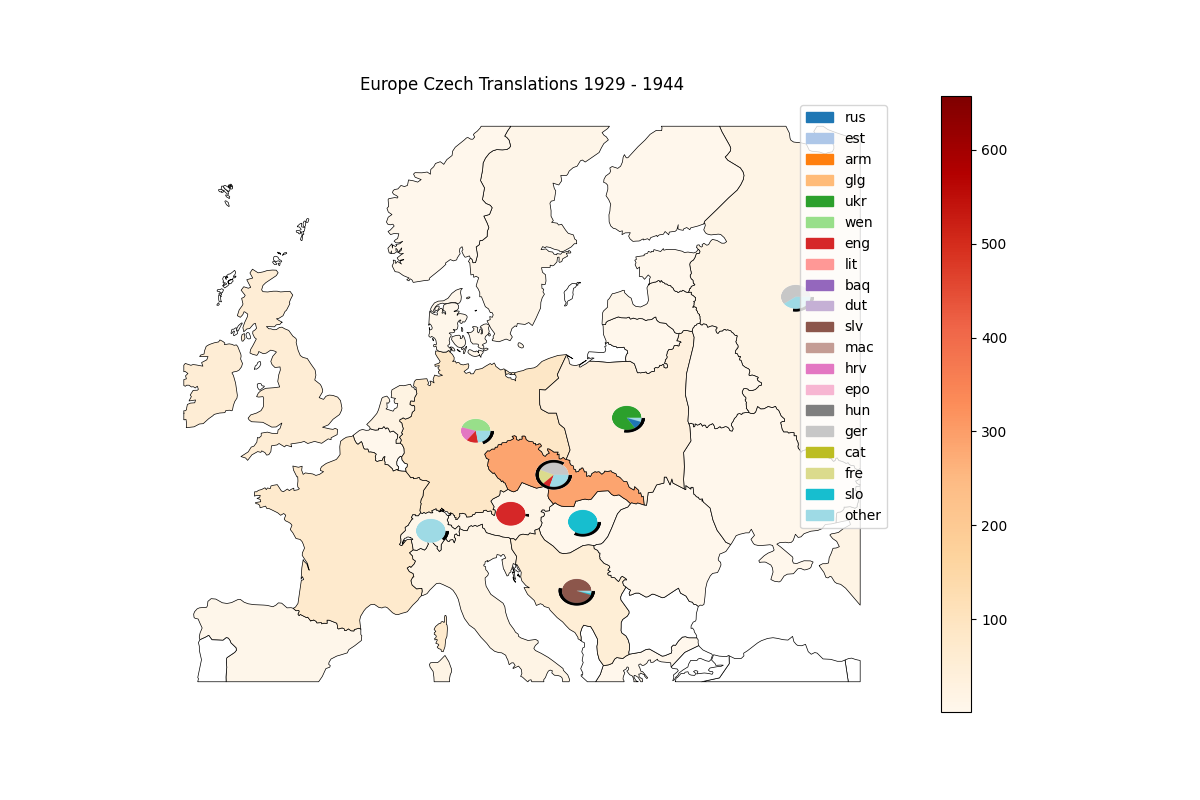
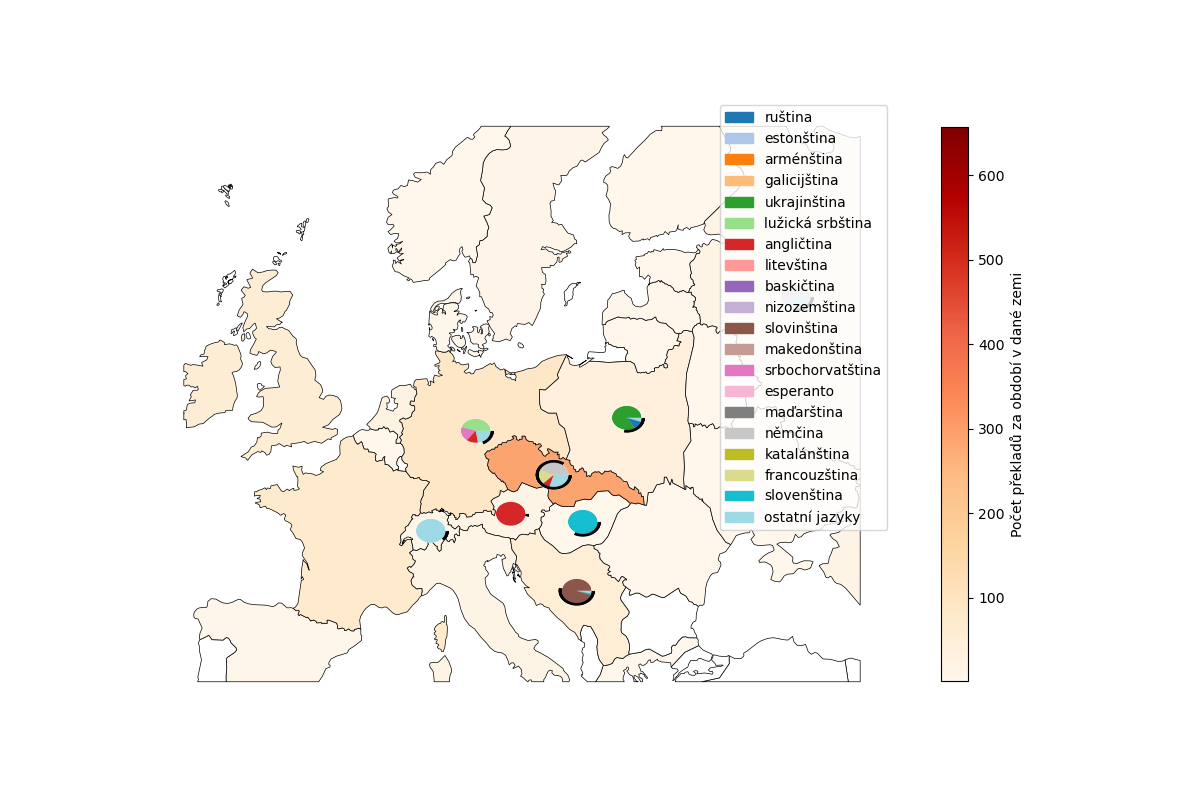
labels changes

Changed region(s): [[0.5858, 0.125, 0.74, 0.6562], [0.7708, 0.125, 0.8633, 0.875], [0.3083, 0.0938, 0.5858, 0.125]]

diff --git a/plot_map_with_chart.py b/plot_map_with_chart.py
@@ -9,7 +9,7 @@ import matplotlib.patches as mpatches
 ############ FOR MAPS #############
 
 # folder with geopandas maps
-folder_path = "C:/Users/Panuskova/Nextcloud/translation-mapping/historical-basemaps/years"
+folder_path = "historical-basemaps/years"
 
  # Bounding box of the map - Europe
 bbox =  [-10, 40, 40, 65] #[-10, 35, 60, 75] # [minx, miny, maxx, maxy] - minimal longitude, minimal latitude, maximal longitude, maximal latitude
@@ -59,14 +59,34 @@ norm = colors.Normalize(vmin=vmin, vmax=vmax)
 RADIUS = 1.1
 
 # folder with charts
-piechart_folder = 'plots\\pie charts minor top 19 languages plain\\'
+piechart_folder = 'plots/pie charts minor top 19 languages plain/'
 
 # Table with number of translations for each country, language and decade
-df = pd.read_excel("weights\\translations_language_countries.xlsx")
+df = pd.read_excel("weights/translations_language_countries.xlsx")
 
 # countries and languages from number_of_colors.py  
 countries =["Italy", "Belgium", "United Kingdom", "Czechoslovakia", "Denmark", "Sweden", "Slovakia", "Spain", "Switzerland", "USSR", "Germany (Soviet)", "East Germany",  "Germany", "Yugoslavia", "Poland", "Austria", "Italy", "Hungary"]
-languages = ["rus", "est", "arm", "glg", "ukr", "wen", "eng", "lit", "baq", "dut", "slv", "mac", "hrv", "epo", "hun", "ger", "cat", "fre", "slo", "other"]
+#languages = ["rus", "est", "arm", "glg", "ukr", "wen", "eng", "lit", "baq", "dut", "slv", "mac", "hrv", "epo", "hun", "ger", "cat", "fre", "slo", "other"]
+languages = {"rus": "ruština",
+                   "est": "estonština",
+                   "arm": "arménština",
+                   "glg": "galicijština", 
+                   "ukr": "ukrajinština",
+                   "wen": "lužická srbština",
+                   "eng": "angličtina",
+                   "lit": "litevština",
+                   "baq": "baskičtina",
+                   "dut": "nizozemština",
+                   "slv": "slovinština",
+                   "mac": "makedonština",
+                   "hrv": "srbochorvatština",
+                   "epo": "esperanto",
+                   "hun": "maďarština",
+                   "ger": "němčina",
+                   "cat": "katalánština",
+                   "fre": "francouzština",
+                   "slo": "slovenština",
+                   "other": "ostatní jazyky"}
 
 # Palette for languages
 my_color_palette = {}
@@ -76,9 +96,9 @@ all_colors =[plt.cm.tab20(i) for i in range(20)]
 handles = []
 
 # Save color for each country
-for i, language in enumerate(languages):
-    my_color_palette[language] = all_colors[i]
-    handles.append(mpatches.Patch(color=all_colors[i], label=language))
+for i, (language_code, language_czech) in enumerate(languages.items()):
+    my_color_palette[language_code] = all_colors[i]
+    handles.append(mpatches.Patch(color=all_colors[i], label=language_czech))
 
 ### centroid of geometry
 # Load the GeoJSON map
@@ -165,19 +185,24 @@ for idx,map_year in enumerate(years):
     
     # colorbar 
     cbar = plt.cm.ScalarMappable(norm=norm, cmap=cmap)
-    fig.colorbar(cbar)
+    # set colormap
+    cb = fig.colorbar(cbar, ax = ax, shrink=0.9)
+    # set label to colormap scale
+    cb.set_label('Počet překladů za období v dané zemi', rotation=90)
+    
+    # add legend 
     plt.legend(handles=handles)        
 
 
     # Write years in the title 
     if map_year  == 1929:
-        ax.set_title('Europe Czech Translations {} - {}'.format(str(map_year), '1939'))
+        title = 'Europe Czech Translations {} - {}'.format(str(map_year), '1939')
     elif idx < len(years)-1:
-        ax.set_title('Europe Czech Translations {} - {}'.format(str(map_year), str(int(years[idx+1])-1))) 
+        title = 'Europe Czech Translations {} - {}'.format(str(map_year), str(int(years[idx+1])-1))
     else:
-        ax.set_title('Europe Czech Translations {} - {}'.format(str(map_year), '2021'))
+        title  = 'Europe Czech Translations {} - {}'.format(str(map_year), '2021')
     ax.set_axis_off()  # Turn off the axis to remove the axis frame
     
-    plt.savefig('plots/normalized with charts/'+ax.get_title() + '.png')
+    plt.savefig('plots/normalized with charts/'+title + '.png')
 
     
